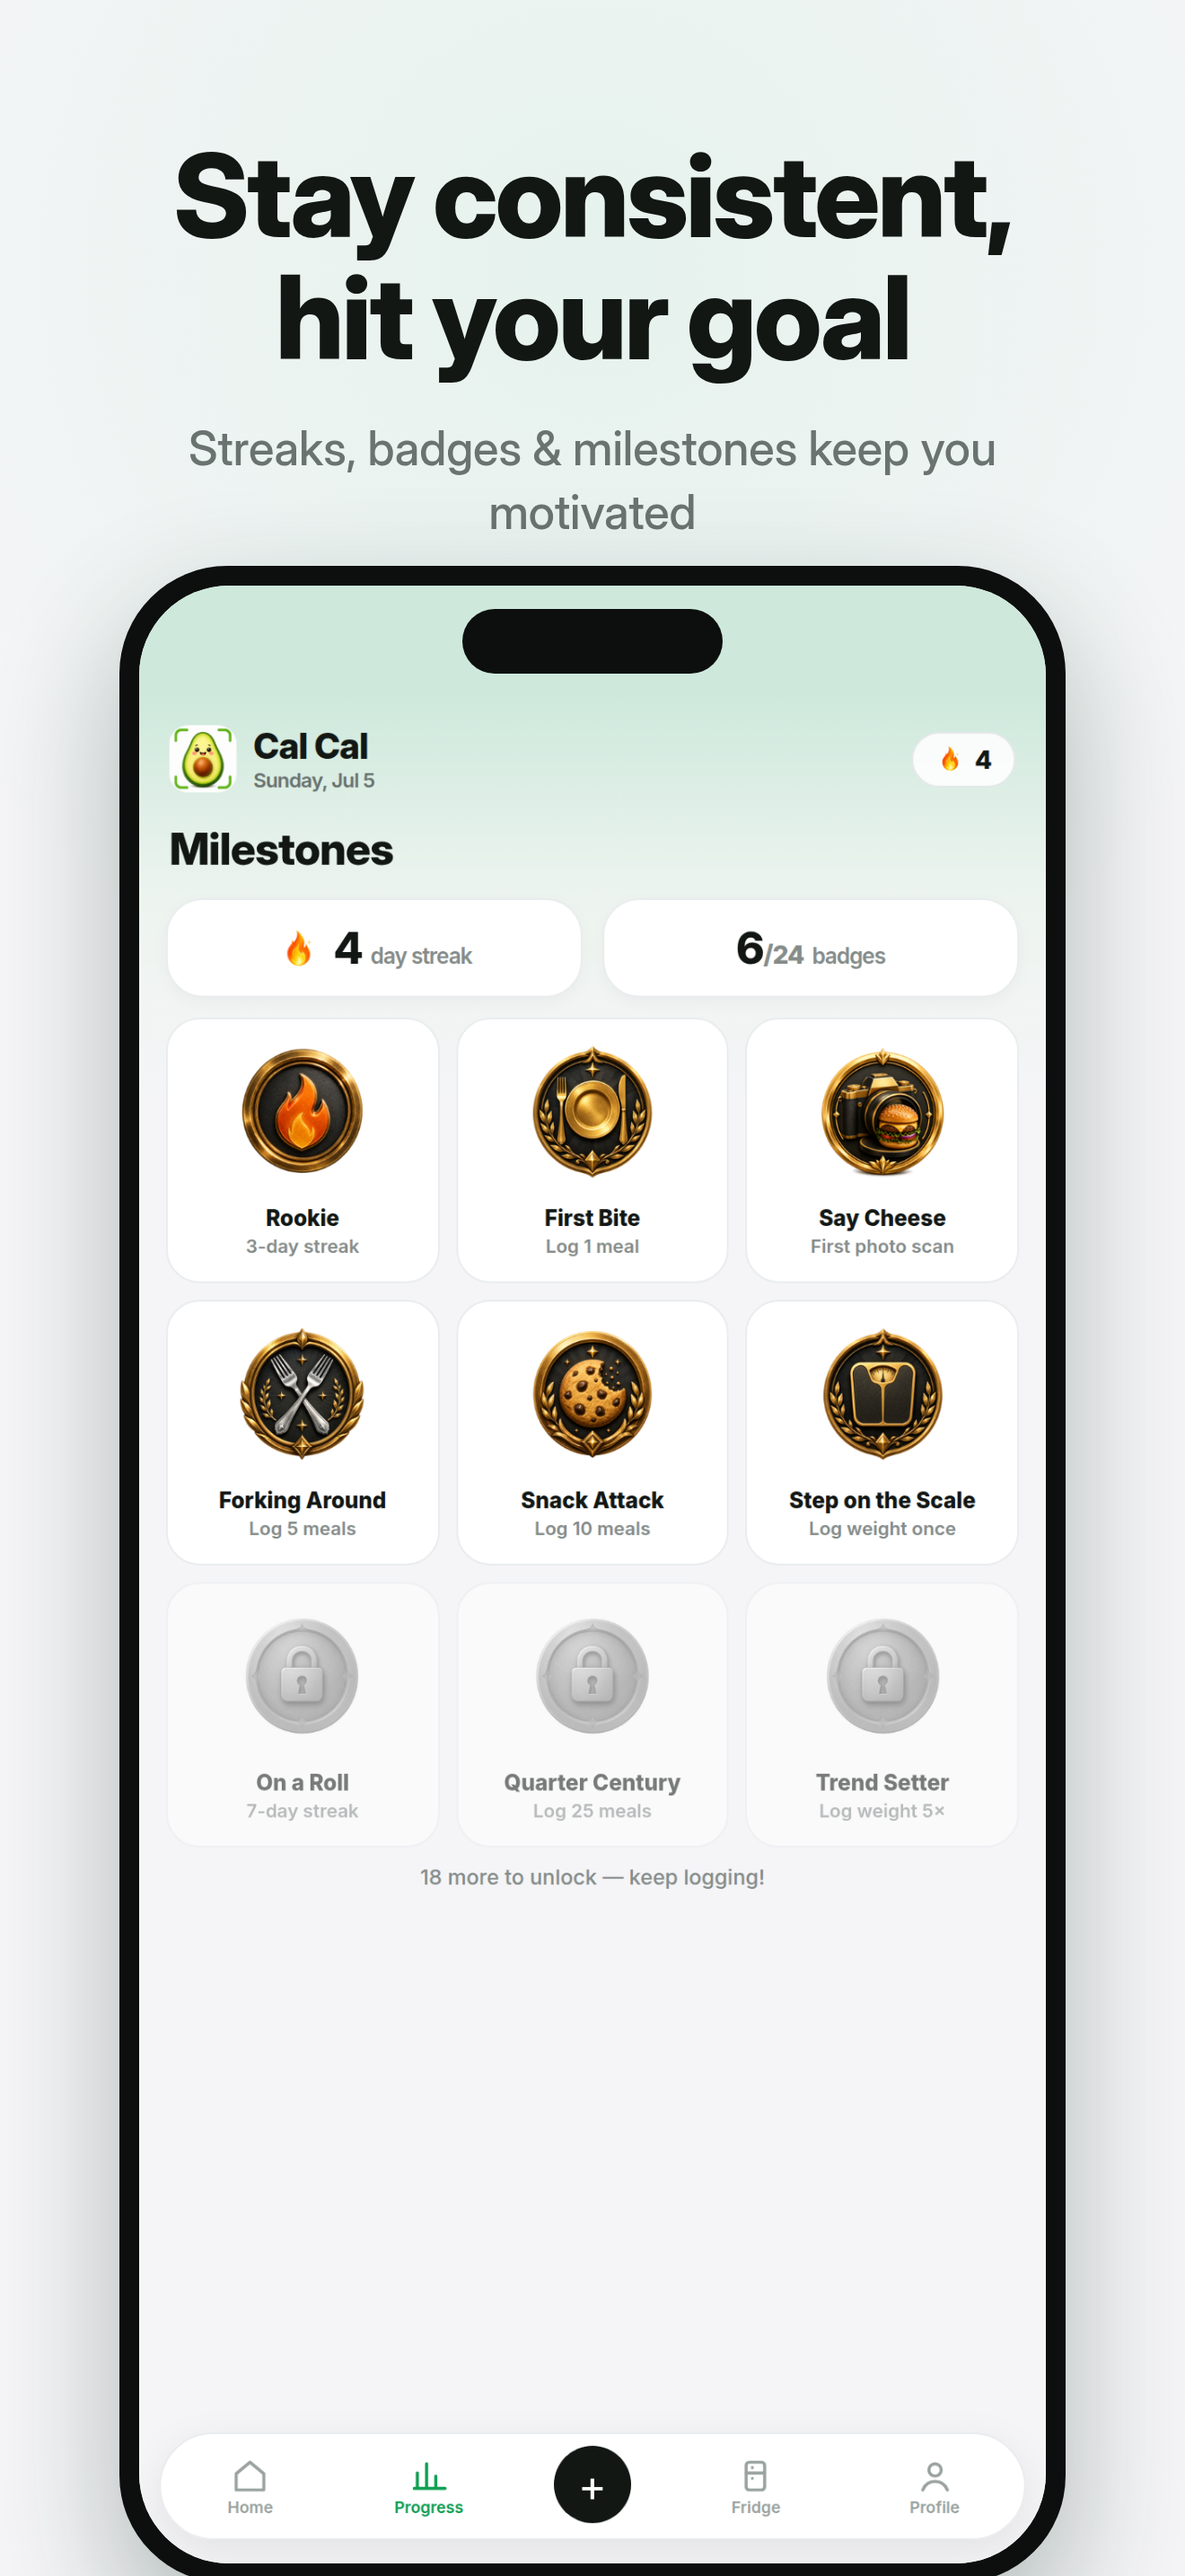
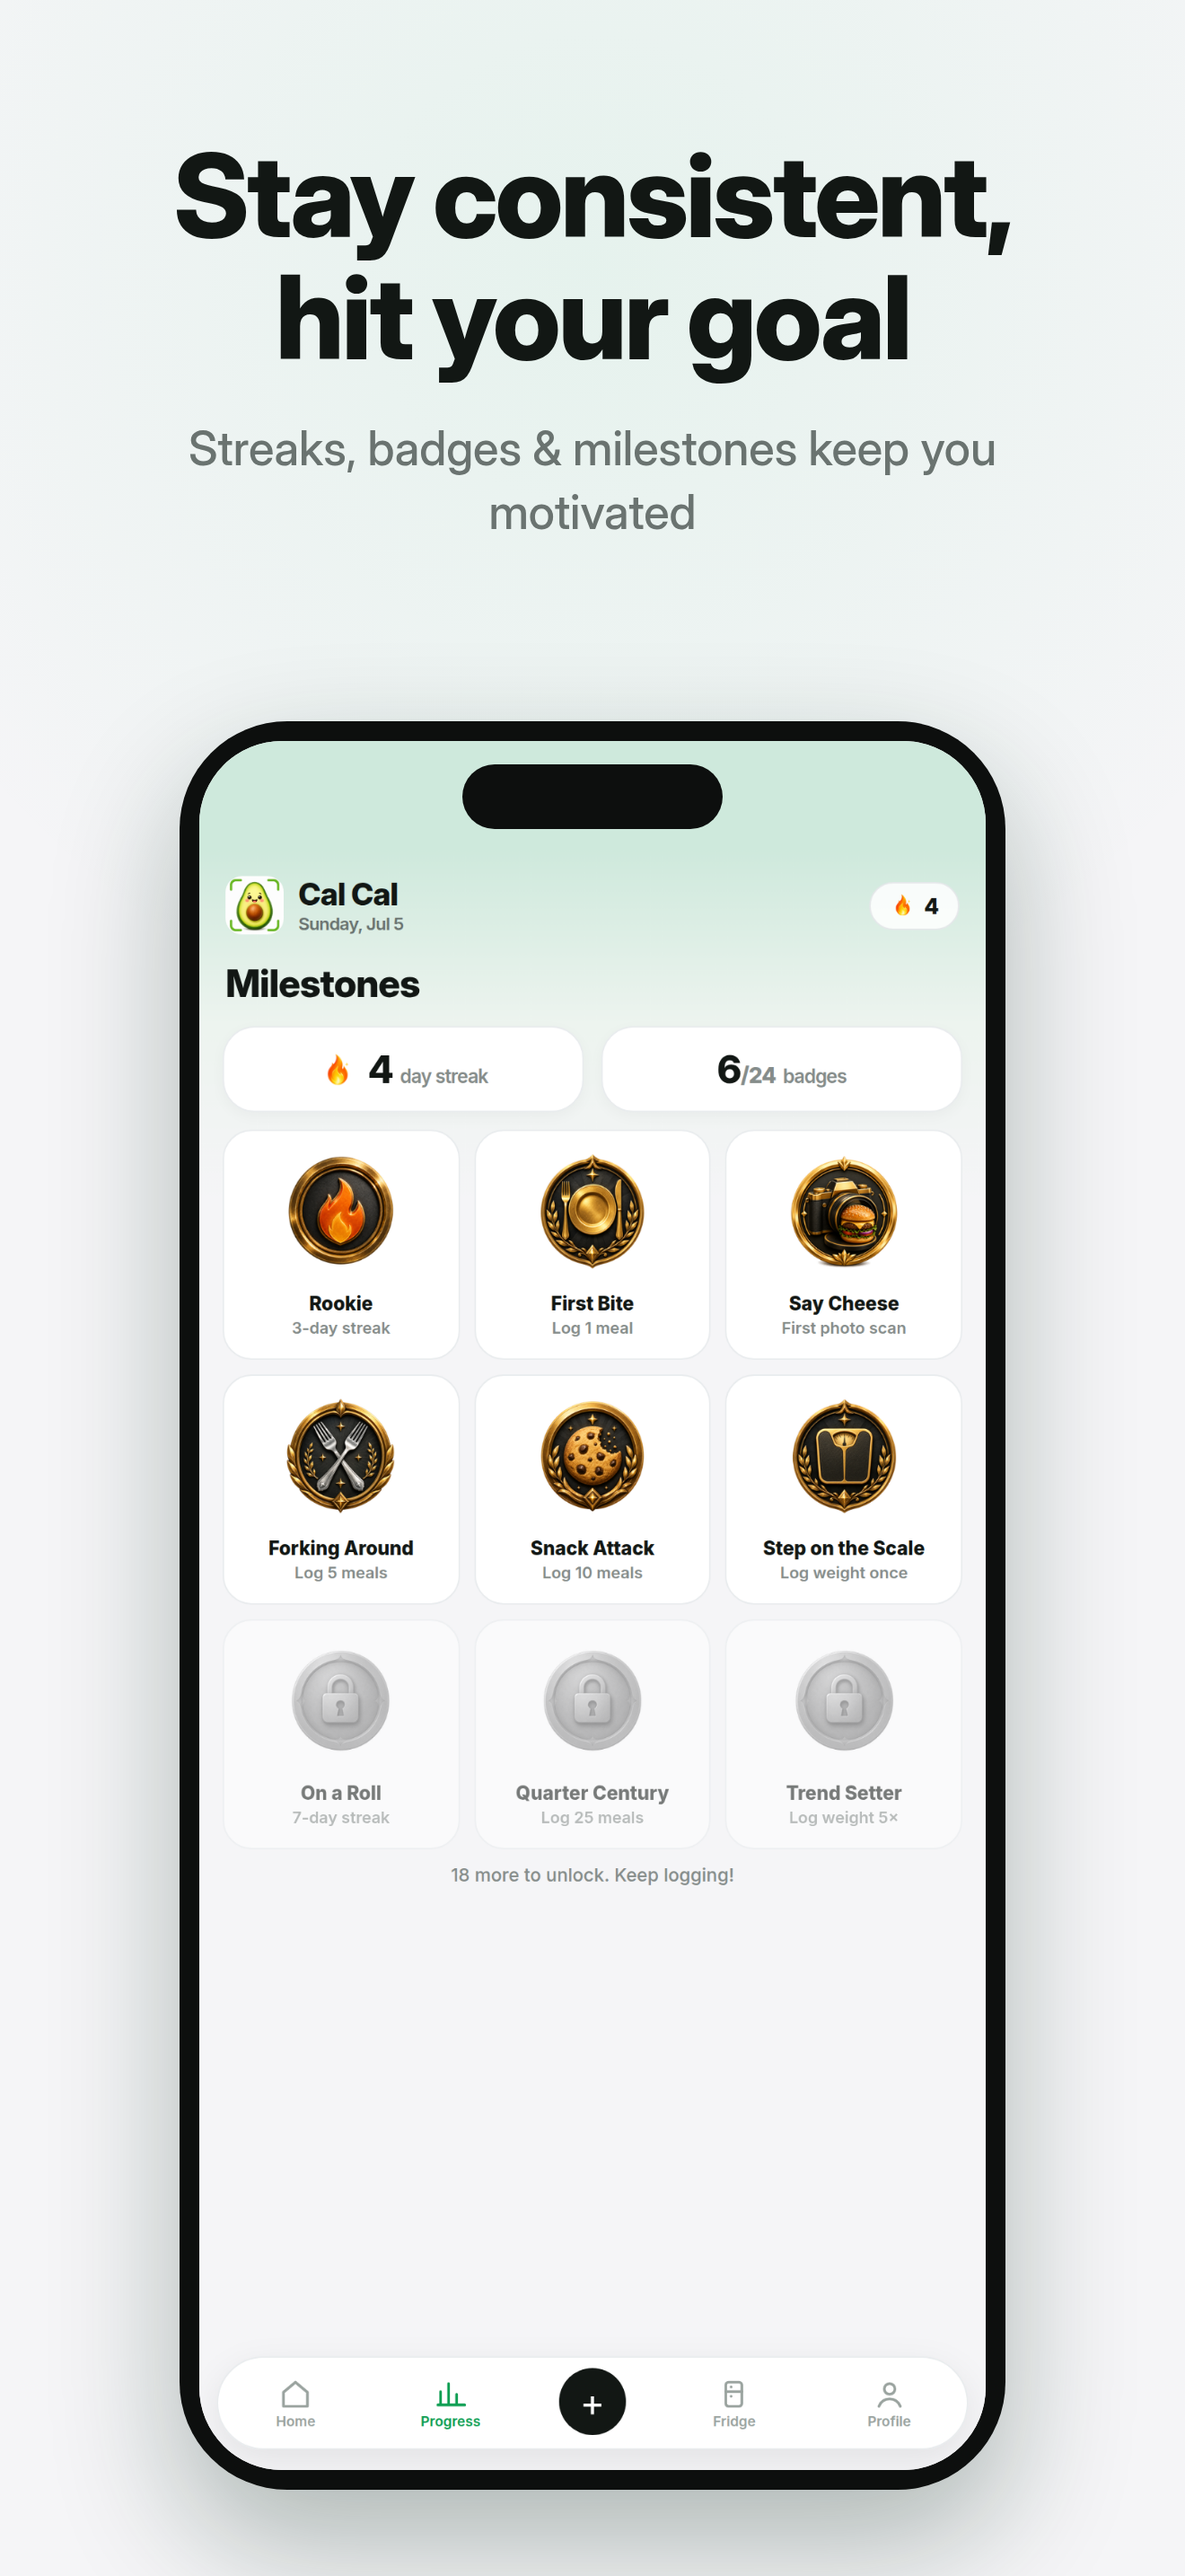
Polish screenshot set: uniform phones, no em dashes, Fridge panel
- All phones now identical size (920px wide), fully visible with a
  bottom margin instead of bleeding off the panel edge
- Removed every em dash from captions and in-screen copy
- New panel 4: Fridge feature (recreated from real device screenshots):
  Snap your fridge, What can I cook, dinner budget, categorized items
- Old six-ways panel kept as spare calcal_11.png (App Store max is 10)

Claude-Session: https://claude.ai/code/session_01U8zB96jntubMM3RPL6Mws6

Changed region(s): [[0.0621, 0.2172, 0.9318, 1.0]]

diff --git a/appstore/screens3.js b/appstore/screens3.js
@@ -1,0 +1,78 @@
+// Fridge screen (540x1114 @2x = 1080x2228), recreated from real device screenshots
+const { chromium } = require('playwright-core');
+const fs = require('fs');
+const path = require('path');
+const S = __dirname;
+
+const chip = (t) => `<span style="display:inline-flex;align-items:center;gap:7px;background:#F3F5F4;border-radius:999px;padding:9px 14px;font-size:13.5px;font-weight:600;margin:0 7px 9px 0">${t} <span style="color:#B9C0BD;font-size:12px">✕</span></span>`;
+const cat = (emoji, name, items) => `
+  <div style="font-size:14px;font-weight:800;margin:14px 0 9px">${emoji} ${name}</div>
+  <div>${items.map(chip).join('')}</div>`;
+
+const BODY = `
+<div style="position:absolute;inset:0;background:linear-gradient(#CEE9DC, #EDF4EF 130px, #F5F5F7 260px)"></div>
+<div style="position:relative;padding:14px 16px 0">
+  <div style="font-size:30px;font-weight:800;letter-spacing:-.02em;padding:10px 2px 12px">Fridge</div>
+
+  <div style="display:flex;background:rgba(18,23,20,.06);border-radius:999px;padding:4px;margin-bottom:14px">
+    <div style="flex:1;text-align:center;background:#fff;border-radius:999px;padding:9px 0;font-size:14px;font-weight:700;box-shadow:0 2px 8px rgba(0,0,0,.08)">My Fridge</div>
+    <div style="flex:1;text-align:center;padding:9px 0;font-size:14px;font-weight:600;color:#6a7370">My Food</div>
+    <div style="flex:1;text-align:center;padding:9px 0;font-size:14px;font-weight:600;color:#6a7370">Cookbook</div>
+  </div>
+
+  <div style="background:#fff;border:1px solid #E9ECEE;border-radius:22px;padding:14px;box-shadow:0 3px 10px rgba(0,0,0,.035)">
+    <div style="display:flex;align-items:center;gap:10px;background:#F3F5F4;border-radius:16px;padding:12px 14px;color:#9aa39f;font-size:15px;font-weight:500">
+      <span style="width:22px;height:22px;border-radius:50%;background:#19CC6B;color:#fff;display:inline-flex;align-items:center;justify-content:center;font-size:15px;font-weight:700">+</span>
+      Add food... e.g. eggs, rice, spinach
+    </div>
+    <div style="display:flex;align-items:center;justify-content:space-between;margin-top:10px">
+      <div style="display:inline-flex;align-items:center;gap:8px;background:rgba(25,204,107,.14);color:#0D9E52;border-radius:999px;padding:9px 16px;font-size:14.5px;font-weight:800">📷 Snap your fridge</div>
+      <div style="font-size:13.5px;color:#6a7370;font-weight:600">26 items</div>
+    </div>
+  </div>
+
+  <div style="background:#fff;border:1px solid #E9ECEE;border-radius:22px;padding:16px;margin-top:12px;box-shadow:0 10px 26px rgba(0,0,0,.07)">
+    <div style="font-size:18px;font-weight:800">What can I cook?</div>
+    <div style="font-size:12.5px;color:#858C8A;font-weight:500;margin-top:3px">Pick the meal, we size suggestions to fit its share of your day.</div>
+    <div style="display:flex;gap:7px;margin-top:12px">
+      <div style="background:#F3F5F4;border-radius:999px;padding:8px 13px;font-size:12.5px;font-weight:700;color:#4a4d4a">🍳 Breakfast</div>
+      <div style="background:#F3F5F4;border-radius:999px;padding:8px 13px;font-size:12.5px;font-weight:700;color:#4a4d4a">🥗 Lunch</div>
+      <div style="background:#19CC6B;color:#fff;border-radius:999px;padding:8px 13px;font-size:12.5px;font-weight:800">🍽 Dinner</div>
+      <div style="background:#F3F5F4;border-radius:999px;padding:8px 13px;font-size:12.5px;font-weight:700;color:#4a4d4a">🍎 Snacks</div>
+    </div>
+    <div style="font-size:13px;font-weight:700;color:#0D9E52;margin-top:12px">Budget for dinner: ~1,269 kcal · 2,980 kcal left today</div>
+    <div style="background:#19CC6B;color:#fff;border-radius:16px;height:50px;display:flex;align-items:center;justify-content:center;font-size:15.5px;font-weight:800;margin-top:12px;box-shadow:0 10px 24px rgba(25,204,107,.35)">✨ Suggest dinner</div>
+  </div>
+
+  <div style="background:#fff;border:1px solid #E9ECEE;border-radius:22px;padding:16px;margin-top:12px">
+    <div style="font-size:12px;color:#858C8A;font-weight:500">Tap an item to edit its nutrition · ✕ removes it</div>
+    ${cat('🍗','Protein',['Eggplant salad','Eggs','meat'])}
+    ${cat('🥦','Fruit & Veg',['beans','Korean salad','lemon','lettuce'])}
+    ${cat('🌾','Carbs & Grains',['pasta sauce','Potato','rice'])}
+    ${cat('🥛','Dairy',['Philadelphia cheese','Yogurt'])}
+  </div>
+</div>
+
+<div style="position:absolute;left:12px;right:12px;bottom:14px;height:64px;background:rgba(255,255,255,.96);border:1px solid #E9ECEE;border-radius:32px;display:flex;align-items:center;justify-content:space-around;box-shadow:0 8px 26px rgba(0,0,0,.08)">
+  <div style="font-size:9.5px;font-weight:600;color:#9aa39f;text-align:center;width:64px"><svg viewBox="0 0 24 24" fill="none" stroke="currentColor" stroke-width="2" stroke-linecap="round" stroke-linejoin="round" style="width:22px;height:22px;margin:0 auto 2px;display:block"><path d="M3 10.5 12 3l9 7.5V21H3z"/></svg>Home</div>
+  <div style="font-size:9.5px;font-weight:600;color:#9aa39f;text-align:center;width:64px"><svg viewBox="0 0 24 24" fill="none" stroke="currentColor" stroke-width="2" stroke-linecap="round" style="width:22px;height:22px;margin:0 auto 2px;display:block"><path d="M4 20V10M10 20V4M16 20v-8M22 20H2"/></svg>Progress</div>
+  <div style="width:46px;height:46px;border-radius:50%;background:#121714;display:flex;align-items:center;justify-content:center;color:#fff;font-size:26px;margin-top:-2px">+</div>
+  <div style="font-size:9.5px;font-weight:700;color:#0D9E52;text-align:center;width:64px"><svg viewBox="0 0 24 24" fill="none" stroke="currentColor" stroke-width="2" stroke-linecap="round" style="width:22px;height:22px;margin:0 auto 2px;display:block"><rect x="6" y="3" width="12" height="18" rx="2"/><path d="M6 10h12M10 6.5h.01M10 13.5h.01"/></svg>Fridge</div>
+  <div style="font-size:9.5px;font-weight:600;color:#9aa39f;text-align:center;width:64px"><svg viewBox="0 0 24 24" fill="none" stroke="currentColor" stroke-width="2" stroke-linecap="round" style="width:22px;height:22px;margin:0 auto 2px;display:block"><circle cx="12" cy="8" r="4"/><path d="M4 21c1.5-3.6 4.5-5.5 8-5.5s6.5 1.9 8 5.5"/></svg>Profile</div>
+</div>`;
+
+(async () => {
+  const browser = await chromium.launch({ executablePath: '/opt/pw-browsers/chromium' });
+  const page = await browser.newPage({ viewport: { width: 540, height: 1114 }, deviceScaleFactor: 2 });
+  const f = path.join(S, 'screen_fridge.html');
+  fs.writeFileSync(f, `<!DOCTYPE html><html><head><meta charset="utf-8"><style>
+@font-face { font-family:'Inter'; src:url('file://${S}/Inter.ttf'); font-weight:100 900; }
+*{margin:0;padding:0;box-sizing:border-box}
+body{width:540px;height:1114px;font-family:'Inter',sans-serif;background:#F5F5F7;color:#121714;overflow:hidden;position:relative}
+</style></head><body>${BODY}</body></html>`);
+  await page.goto('file://' + f);
+  await page.waitForTimeout(300);
+  await page.screenshot({ path: path.join(S, 'frames', 'gen_fridge.png') });
+  console.log('fridge done');
+  await browser.close();
+})();

diff --git a/appstore/generate.js b/appstore/generate.js
@@ -16,38 +16,38 @@ const PANELS = [
   {
     n: 2, frame: 'gen_scan.png', noPad: true,
     headline: 'Just snap<br>your food',
-    sub: 'The AI food scanner reads your plate — any dish, any cuisine',
+    sub: 'The AI food scanner reads your plate. Any dish, any cuisine',
   },
   {
     n: 3, frame: 'gen_result.png', noPad: true,
     headline: 'Calories & macros<br>in seconds',
-    sub: 'Protein, carbs & fat — fix anything with a tap',
+    sub: 'Protein, carbs & fat. Fix anything with a tap',
   },
   {
-    n: 4, frame: 'f_0.5.png', pad: '#7E8E86',
-    headline: 'Six ways to log<br>any food',
-    sub: 'Photo scan · barcode · describe it · saved meals · manual · exercise',
+    n: 4, frame: 'gen_fridge.png', pad: '#CEE9DC',
+    headline: 'Turn your fridge<br>into dinner',
+    sub: 'Snap your fridge. AI suggests meals that fit your remaining calories',
   },
   {
     n: 5, frame: 'f_8.4.png', pad: '#CEE9DC',
     headline: 'Your AI<br>nutrition coach',
-    sub: 'Knows what’s left in your day — and tells you what to eat next',
+    sub: 'It knows what’s left in your day and tells you what to eat next',
     coachZoom: true,
   },
   {
     n: 6, frame: 'gen_progress.png', pad: '#CEE9DC',
     headline: 'Watch the weight<br>come off',
-    sub: 'Weight trend, streaks & progress charts — synced with Apple Health',
+    sub: 'Weight trend, streaks and charts, synced with Apple Health',
   },
   {
     n: 7, frame: 'gen_plan.png', pad: '#F5F5F7',
     headline: 'A calorie plan<br>built for you',
-    sub: 'Answer a few questions — get your daily calories, macros & goal date',
+    sub: 'Answer a few questions to get your daily calories, macros & goal date',
   },
   {
     n: 8, frame: 'gen_barcode2.png', noPad: true,
     headline: 'Instant barcode<br>scanner',
-    sub: 'Millions of packaged foods — exact nutrition in one scan',
+    sub: 'Millions of packaged foods. Exact nutrition in one scan',
   },
   {
     n: 9, frame: 'gen_health.png', pad: '#CEE9DC',
@@ -58,6 +58,11 @@ const PANELS = [
     n: 10, frame: 'gen_milestones.png', pad: '#CEE9DC',
     headline: 'Stay consistent,<br>hit your goal',
     sub: 'Streaks, badges & milestones keep you motivated',
+  },
+  {
+    n: 11, frame: 'f_0.5.png', pad: '#7E8E86',
+    headline: 'Six ways to log<br>any food',
+    sub: 'Photo scan · barcode · describe it · saved meals · manual · exercise',
   },
 ];
 
@@ -75,19 +80,19 @@ function html(p) {
         font-size:44px;font-weight:800;letter-spacing:.06em;padding:26px 60px;border-radius:80px;
         box-shadow:0 20px 50px rgba(25,204,107,.35);}
   .sub{margin-top:44px;font-size:52px;font-weight:500;color:#6a7370;line-height:1.35;padding:0 60px;}
-  .scene{position:absolute;left:50%;transform:translateX(-50%);bottom:-8px;}
-  .phone{width:1054px;background:#0d0f0e;border-radius:120px;padding:22px;
+  .scene{position:absolute;left:50%;transform:translateX(-50%);bottom:96px;}
+  .phone{width:920px;background:#0d0f0e;border-radius:120px;padding:22px;
          box-shadow:0 60px 140px rgba(10,40,25,.30);}
-  .screen{border-radius:100px;overflow:hidden;position:relative;background:#F5F5F7;}
+  .screen{border-radius:92px;overflow:hidden;position:relative;background:#F5F5F7;height:1925px;}
   .screen .pad{height:118px;background:var(--pad);}
-  .screen img{width:100%;display:block;}
+  .screen img{width:100%;display:block;} .screen.nopad img{width:100%;height:100%;object-fit:cover;}
   .notch{position:absolute;top:26px;left:50%;transform:translateX(-50%);width:290px;height:72px;
          background:#0d0f0e;border-radius:44px;}
-  .coach-callout{position:absolute;left:50%;transform:translateX(-50%) rotate(-2deg);top:1210px;width:1060px;background:#fff;border-radius:56px;
+  .coach-callout{position:absolute;left:50%;transform:translateX(-50%) rotate(-2deg);top:1120px;width:930px;background:#fff;border-radius:56px;
         box-shadow:0 50px 120px rgba(0,0,0,.28);padding:44px 52px;display:flex;gap:36px;align-items:flex-start;
         border:3px solid #E5E8EA;}
-  .coach-callout img.av{width:150px;height:150px;flex:none;}
-  .coach-callout .t{font-size:50px;line-height:1.35;color:#121714;font-weight:600;}
+  .coach-callout img.av{width:130px;height:130px;flex:none;}
+  .coach-callout .t{font-size:44px;line-height:1.35;color:#121714;font-weight:600;}
   .coach-callout .t b{display:block;color:#0D9E52;font-size:38px;font-weight:800;letter-spacing:.04em;margin-bottom:10px;}
   </style></head><body style="--pad:${p.pad || '#F5F5F7'}">
   <div class="glow"></div>
@@ -97,7 +102,7 @@ function html(p) {
     ${p.sub ? `<div class="sub">${p.sub}</div>` : ''}
   </div>
   <div class="scene">
-    <div class="phone"><div class="screen">
+    <div class="phone"><div class="screen ${p.noPad ? 'nopad' : ''}">
       ${p.noPad ? '' : '<div class=\"pad\"></div>'}
       <img src="file://${S}/frames/${p.frame}">
       <div class="notch"></div>

diff --git a/appstore/screens.js b/appstore/screens.js
@@ -151,7 +151,7 @@ plan: { bodyClass:'', html: `
 <div class="card">
   <div class="h" style="margin-bottom:10px">How we get you there</div>
   <div style="font-size:14px;font-weight:600;line-height:2.1">
-    📸&nbsp; Snap your meals — AI does the math<br>
+    📸&nbsp; Snap your meals, AI does the math<br>
     🎯&nbsp; Hit your protein target daily<br>
     📈&nbsp; Weigh in weekly to tune the plan
   </div>
@@ -249,7 +249,7 @@ ${APPHEAD}
     <div style="flex:1;aspect-ratio:.82;border-radius:12px;display:flex;align-items:center;justify-content:center;font-size:21px;
       ${i<6?'background:linear-gradient(180deg,#DFF1FB,#BFE3F7);border:1.5px solid #A8D8F2':'background:#F5F7F8;border:1.5px dashed #D5DBDE;opacity:.6'}">💧</div>`).join('')}
   </div>
-  <div class="sub2" style="margin-top:10px">6 of 8 cups — tap a cup to log</div>
+  <div class="sub2" style="margin-top:10px">6 of 8 cups. Tap a cup to log</div>
 </div>
 <div class="card">
   <div class="row">
@@ -293,7 +293,7 @@ ${(() => {
   ];
   return rows.map(r=>`<div style="display:flex;gap:10px;margin-bottom:10px">${r.map(c=>`<div style="flex:1">${cell(...c)}</div>`).join('')}</div>`).join('');
 })()}
-<div class="sub2" style="text-align:center;margin-top:4px">18 more to unlock — keep logging!</div>
+<div class="sub2" style="text-align:center;margin-top:4px">18 more to unlock. Keep logging!</div>
 </div>
 ${TABBAR('progress')}`},
 };
